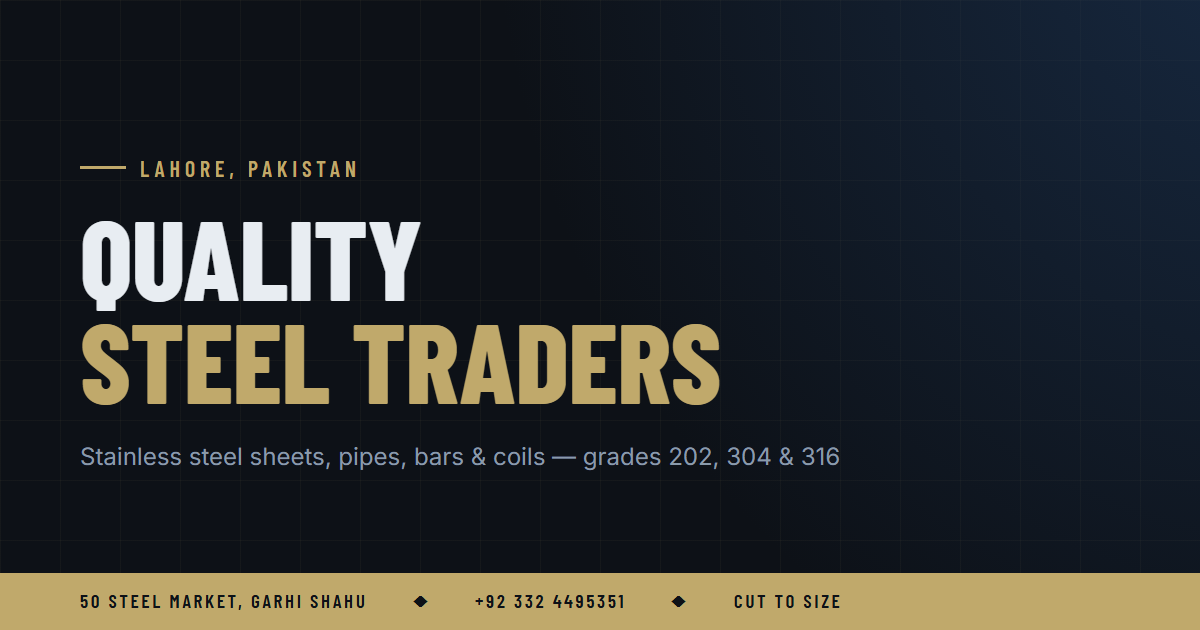
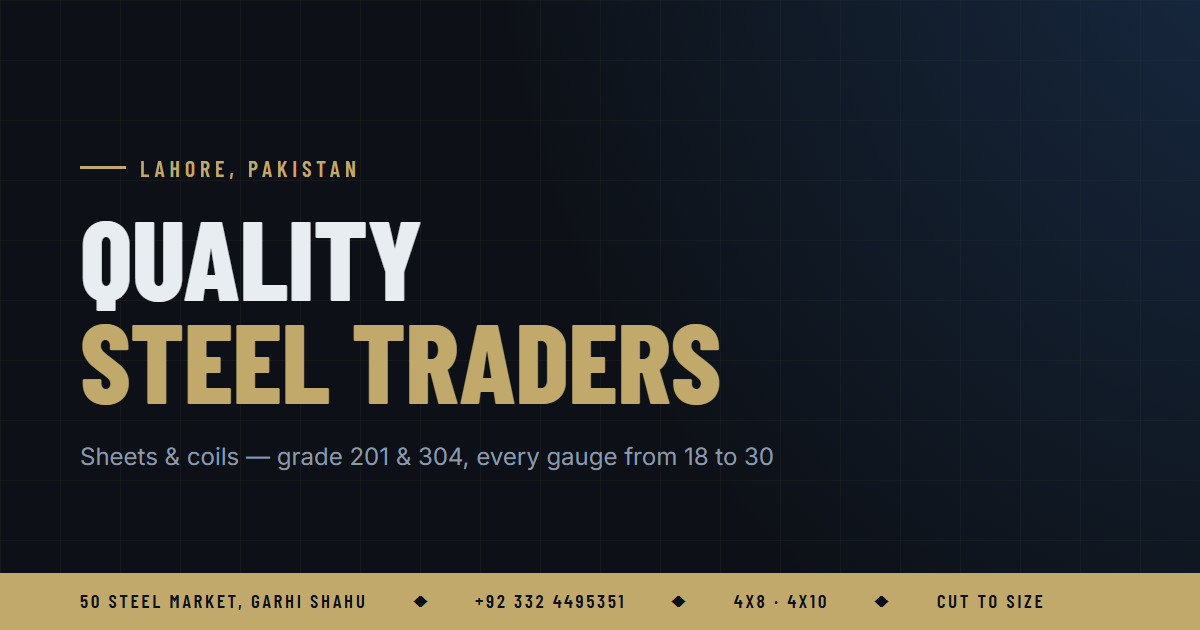
Restructure around sheets and coils using real stock data
Reworks the page from the inventory export so it reflects what the
business actually sells, and adds the specification detail that wins
long-tail searches.

Nothing priced or stock-level is published. Note that the export's
product names embed the buying rates ("26g 4ft rate 405"), so names
were not reused verbatim — only the specification was taken from them.

Corrections from the real data:

- Grades were wrong. The site advertised 202/304/316; stock is 201 and
  304. Now states 201 and 304 held, 202 and 316 to order.
- Golden PVD decorative sheets were stocked but absent from the site
  entirely. Added as a product line.
- Sheets and coils now lead the grid as the core business; pipes, bars,
  angles and fittings are marked "To Order".

Adds a "What We Stock" section covering gauge range 18-30, sheet sizes
4x8, 4x10, 30in and 39in, grades, finishes, forms and cutting — the
specifics buyers actually search for. Adds a Stock nav link.

Updates title, meta and og/twitter descriptions to match, and
regenerates og-image.png, which had the wrong grades printed on it.

Changed region(s): [[0.0617, 0.6937, 0.7092, 0.754], [0.6167, 0.9349, 0.74, 0.9651], [0.7708, 0.9349, 0.8633, 0.9651]]

diff --git a/index.html b/index.html
@@ -5,8 +5,8 @@
   <meta name="viewport" content="width=device-width, initial-scale=1.0"/>
 
   <!-- ── PRIMARY SEO ── -->
-  <title>Stainless Steel Supplier in Lahore | Quality Steel Traders</title>
-  <meta name="description" content="Stainless steel sheets, pipes, bars, coils and fittings in grades 202, 304 and 316. Supplier at 50 Steel Market, Garhi Shahu, Lahore. Cut-to-size, mill test certificates, same-day delivery in Lahore."/>
+  <title>Stainless Steel Sheets &amp; Coils in Lahore | Quality Steel Traders</title>
+  <meta name="description" content="Stainless steel sheets and coils in grades 201 and 304, gauges 18 to 30, sizes 4x8 and 4x10. Golden PVD sheets in stock. Supplier at Steel Market, Garhi Shahu, Lahore. Cut to size."/>
   <link rel="canonical" href="https://qualitysteeltraderslahore.com/"/>
   <meta name="robots" content="index, follow, max-image-preview:large"/>
   <meta name="author" content="Quality Steel Traders"/>
@@ -26,15 +26,15 @@
   <meta property="og:site_name" content="Quality Steel Traders"/>
   <meta property="og:locale" content="en_PK"/>
   <meta property="og:url" content="https://qualitysteeltraderslahore.com/"/>
-  <meta property="og:title" content="Stainless Steel Supplier in Lahore | Quality Steel Traders"/>
-  <meta property="og:description" content="Sheets, pipes, bars, coils and fittings in grades 202, 304 and 316 — direct from Lahore's Steel Market. Cut-to-size and same-day delivery."/>
+  <meta property="og:title" content="Stainless Steel Sheets &amp; Coils in Lahore | Quality Steel Traders"/>
+  <meta property="og:description" content="Grade 201 and 304 sheets in every gauge from 18 to 30 — 4x8, 4x10, 30&quot; and 39&quot; sizes, plus golden PVD sheets. Cut to size at Lahore's Steel Market."/>
   <meta property="og:image" content="https://qualitysteeltraderslahore.com/og-image.png"/>
   <meta property="og:image:width" content="1200"/>
   <meta property="og:image:height" content="630"/>
   <meta property="og:image:alt" content="Quality Steel Traders — stainless steel supplier, Lahore"/>
   <meta name="twitter:card" content="summary_large_image"/>
-  <meta name="twitter:title" content="Stainless Steel Supplier in Lahore | Quality Steel Traders"/>
-  <meta name="twitter:description" content="Sheets, pipes, bars, coils and fittings in grades 202, 304 and 316 — direct from Lahore's Steel Market."/>
+  <meta name="twitter:title" content="Stainless Steel Sheets &amp; Coils in Lahore | Quality Steel Traders"/>
+  <meta name="twitter:description" content="Grade 201 and 304 sheets, gauges 18 to 30, in 4x8 and 4x10 — direct from Lahore's Steel Market."/>
   <meta name="twitter:image" content="https://qualitysteeltraderslahore.com/og-image.png"/>
 
   <!-- ── ICONS ── -->
@@ -54,7 +54,7 @@
     "@type": ["LocalBusiness", "HardwareStore"],
     "@id": "https://qualitysteeltraderslahore.com/#business",
     "name": "Quality Steel Traders",
-    "description": "Stainless steel supplier in Lahore, Pakistan. Sheets, plates, pipes, tubes, bars, coils, angles, channels, fittings and flanges in grades 202, 304 and 316.",
+    "description": "Stainless steel sheet and coil supplier in Lahore, Pakistan. Sheets and coils in grades 201 and 304, gauges 18 to 30, in 4x8, 4x10, 30 inch and 39 inch sizes, plus golden PVD coated sheets. Pipes, bars, angles and fittings available to order.",
     "url": "https://qualitysteeltraderslahore.com/",
     "telephone": "+923324495351",
     "image": "https://qualitysteeltraderslahore.com/og-image.png",
@@ -85,12 +85,13 @@
       { "@type": "Country", "name": "Pakistan" }
     ],
     "knowsAbout": [
-      "Stainless steel sheets and plates in grades 202, 304 and 316",
-      "Stainless steel pipes and tubes, seamless and welded",
-      "Stainless steel bars and rods, round, flat and hexagonal",
+      "Stainless steel sheets in grade 201 and grade 304",
+      "Stainless steel sheets in 18 to 30 gauge",
+      "Stainless steel sheet sizes 4x8, 4x10, 30 inch and 39 inch",
+      "Golden PVD coated decorative stainless steel sheets",
       "Stainless steel coils and strips",
-      "Stainless steel angles and channels",
-      "Stainless steel fittings and flanges, DIN and ANSI"
+      "Cut to size stainless steel sheet cutting",
+      "Stainless steel pipes, tubes, bars, angles and fittings to order"
     ]
   }
   </script>
@@ -418,6 +419,50 @@
       font-weight: 600;
     }
 
+    /* ── SPECIFICATIONS ── */
+    #specs { background: var(--surface); }
+    .spec-grid {
+      display: grid;
+      grid-template-columns: repeat(2, 1fr);
+      gap: 1px;
+      background: var(--divider);
+      border: 1px solid var(--divider);
+      max-width: 980px;
+    }
+    .spec-row {
+      background: var(--steel-dark);
+      padding: 1.6rem 1.8rem;
+    }
+    .spec-label {
+      font-family: var(--font-display);
+      font-size: 0.78rem;
+      font-weight: 600;
+      letter-spacing: 0.16em;
+      text-transform: uppercase;
+      color: var(--accent);
+      margin-bottom: 0.6rem;
+    }
+    .spec-value {
+      color: var(--text-main);
+      font-size: 1rem;
+      line-height: 1.6;
+    }
+    .spec-value .spec-sub {
+      display: block;
+      color: var(--text-muted);
+      font-size: 0.85rem;
+      margin-top: 0.35rem;
+    }
+    .spec-note {
+      margin-top: 1.8rem;
+      font-size: 0.88rem;
+      color: var(--text-muted);
+      max-width: 980px;
+    }
+    .spec-note a { color: var(--accent); text-decoration: none; }
+    .spec-note a:hover { text-decoration: underline; }
+    @media (max-width: 700px) { .spec-grid { grid-template-columns: 1fr; } }
+
     /* ── WHY US ── */
     .why-grid {
       display: grid;
@@ -645,6 +690,7 @@
     </button>
     <ul class="nav-links" id="nav-links">
       <li><a href="#products">Products</a></li>
+      <li><a href="#specs">Stock</a></li>
       <li><a href="#why">Why Us</a></li>
       <li><a href="#contact">Contact</a></li>
       <li><a class="nav-call" href="tel:+923324495351">Call Now</a></li>
@@ -660,8 +706,9 @@
     <p class="hero-eyebrow">Stainless Steel Supplier · Lahore, Pakistan</p>
     <h1>Quality<em>Steel Traders</em></h1>
     <p class="hero-sub">
-      Supplying premium-grade stainless steel — sheets, pipes, bars and coils in grades 202, 304 and 316 —
-      to industries, fabricators, and contractors across Pakistan, direct from the heart of Lahore's Steel Market.
+      Stainless steel sheets and coils in grades 201 and 304 — every gauge from 18 to 30, in 4x8, 4x10,
+      30&Prime; and 39&Prime; sizes — supplied to fabricators, contractors and industry across Pakistan,
+      direct from Lahore's Steel Market.
     </p>
     <div class="cta-row">
       <a href="#products" class="btn-primary">View Products</a>
@@ -678,8 +725,8 @@
         <div class="stat-label">Happy Clients</div>
       </div>
       <div class="stat">
-        <div class="stat-num">Grade 304/316</div>
-        <div class="stat-label">Stock Available</div>
+        <div class="stat-num">18–30</div>
+        <div class="stat-label">Gauge Range In Stock</div>
       </div>
     </div>
   </div>
@@ -689,19 +736,19 @@
 <div class="marquee-wrap" aria-hidden="true">
   <div class="marquee-track">
     <span class="marquee-item">Stainless Steel Sheets <span class="marquee-dot">◆</span></span>
-    <span class="marquee-item">Pipes &amp; Tubes <span class="marquee-dot">◆</span></span>
-    <span class="marquee-item">Bars &amp; Rods <span class="marquee-dot">◆</span></span>
+    <span class="marquee-item">Golden PVD Sheets <span class="marquee-dot">◆</span></span>
+    <span class="marquee-item">18 – 30 Gauge <span class="marquee-dot">◆</span></span>
     <span class="marquee-item">Coils &amp; Strips <span class="marquee-dot">◆</span></span>
-    <span class="marquee-item">Angles &amp; Channels <span class="marquee-dot">◆</span></span>
-    <span class="marquee-item">Grade 304 · 316 · 202 <span class="marquee-dot">◆</span></span>
+    <span class="marquee-item">4x8 · 4x10 · 30&Prime; · 39&Prime; <span class="marquee-dot">◆</span></span>
+    <span class="marquee-item">Grade 201 · 304 <span class="marquee-dot">◆</span></span>
     <span class="marquee-item">Lahore Steel Market <span class="marquee-dot">◆</span></span>
     <!-- duplicate for seamless loop -->
     <span class="marquee-item">Stainless Steel Sheets <span class="marquee-dot">◆</span></span>
-    <span class="marquee-item">Pipes &amp; Tubes <span class="marquee-dot">◆</span></span>
-    <span class="marquee-item">Bars &amp; Rods <span class="marquee-dot">◆</span></span>
+    <span class="marquee-item">Golden PVD Sheets <span class="marquee-dot">◆</span></span>
+    <span class="marquee-item">18 – 30 Gauge <span class="marquee-dot">◆</span></span>
     <span class="marquee-item">Coils &amp; Strips <span class="marquee-dot">◆</span></span>
-    <span class="marquee-item">Angles &amp; Channels <span class="marquee-dot">◆</span></span>
-    <span class="marquee-item">Grade 304 · 316 · 202 <span class="marquee-dot">◆</span></span>
+    <span class="marquee-item">4x8 · 4x10 · 30&Prime; · 39&Prime; <span class="marquee-dot">◆</span></span>
+    <span class="marquee-item">Grade 201 · 304 <span class="marquee-dot">◆</span></span>
     <span class="marquee-item">Lahore Steel Market <span class="marquee-dot">◆</span></span>
   </div>
 </div>
@@ -710,7 +757,7 @@
 <section id="products">
   <div class="section-eyebrow reveal">What We Supply</div>
   <h2 class="reveal">Our Products</h2>
-  <p class="section-desc reveal">All stainless steel — in the grades, finishes, and dimensions your project demands. Bulk orders and cut-to-size available.</p>
+  <p class="section-desc reveal">Sheets and coils are our core stock — held in depth across every gauge from 18 to 30. Cut to size on site, with bulk rates for contractors.</p>
 
   <div class="products-grid">
     <div class="product-card reveal" style="transition-delay:0ms">
@@ -720,34 +767,11 @@
         <path d="M3 16l13 5.5L29 16"/>
         <path d="M3 21.5 16 27l13-5.5"/>
       </svg>
-      <h3>Sheets &amp; Plates</h3>
-      <p>Hot-rolled and cold-rolled stainless sheets in mirror, brushed, and matte finishes. Custom cutting available.</p>
-      <span class="product-tag">Grade 202 · 304 · 316</span>
+      <h3>Stainless Steel Sheets</h3>
+      <p>Our deepest stock. Grade 201 and 304 sheets in 4x8, 4x10, 30&Prime; and 39&Prime; sizes, mirror, brushed and matte finishes.</p>
+      <span class="product-tag">Grade 201 · 304 · 18–30 Gauge</span>
     </div>
     <div class="product-card reveal" style="transition-delay:90ms">
-      <!-- pipe seen end-on, with bore -->
-      <svg class="product-icon" viewBox="0 0 32 32" aria-hidden="true">
-        <ellipse cx="9" cy="16" rx="4" ry="9"/>
-        <ellipse cx="9" cy="16" rx="1.7" ry="4"/>
-        <path d="M9 7h14M9 25h14"/>
-        <path d="M23 7a4 9 0 0 1 0 18"/>
-      </svg>
-      <h3>Pipes &amp; Tubes</h3>
-      <p>Seamless and welded stainless pipes for plumbing, food-grade, chemical, and structural applications.</p>
-      <span class="product-tag">Round · Square · Rectangular</span>
-    </div>
-    <div class="product-card reveal" style="transition-delay:180ms">
-      <!-- length of round bar above a hexagonal bar cross-section -->
-      <svg class="product-icon" viewBox="0 0 32 32" aria-hidden="true">
-        <rect x="3" y="7" width="26" height="7" rx="3.5"/>
-        <path d="M9 18.5 13.5 16l4.5 2.5v5L13.5 26 9 23.5Z"/>
-        <path d="M21 19h7M21 24h7"/>
-      </svg>
-      <h3>Bars &amp; Rods</h3>
-      <p>Solid round, flat, and hexagonal bars for machining, fabrication, and construction use.</p>
-      <span class="product-tag">Bright · Black Finish</span>
-    </div>
-    <div class="product-card reveal" style="transition-delay:0ms">
       <!-- coiled strip unwinding -->
       <svg class="product-icon" viewBox="0 0 32 32" aria-hidden="true">
         <circle cx="13" cy="16" r="9"/>
@@ -756,9 +780,45 @@
       </svg>
       <h3>Coils &amp; Strips</h3>
       <p>Slit coils and precision strips for roll-forming, stamping, and industrial manufacturing lines.</p>
-      <span class="product-tag">Various Gauges</span>
+      <span class="product-tag">Slit to Width</span>
+    </div>
+    <div class="product-card reveal" style="transition-delay:180ms">
+      <!-- sheet with a shine mark, for PVD-coated decorative stock -->
+      <svg class="product-icon" viewBox="0 0 32 32" aria-hidden="true">
+        <path d="M4 9.5 15 4.5l11 5-11 5Z"/>
+        <path d="M4 9.5v11l11 5v-11"/>
+        <path d="M26 9.5v6"/>
+        <path d="M25 20.5l1.4 3.1 3.1 1.4-3.1 1.4L25 29.5l-1.4-3.1-3.1-1.4 3.1-1.4Z"
+              fill="currentColor" stroke="none"/>
+      </svg>
+      <h3>Golden &amp; PVD Sheets</h3>
+      <p>Gold-finish decorative sheets for interiors, furniture, cladding and shopfronts. Sold per sheet by weight.</p>
+      <span class="product-tag">Decorative Finish</span>
+    </div>
+    <div class="product-card reveal" style="transition-delay:0ms">
+      <!-- pipe seen end-on, with bore -->
+      <svg class="product-icon" viewBox="0 0 32 32" aria-hidden="true">
+        <ellipse cx="9" cy="16" rx="4" ry="9"/>
+        <ellipse cx="9" cy="16" rx="1.7" ry="4"/>
+        <path d="M9 7h14M9 25h14"/>
+        <path d="M23 7a4 9 0 0 1 0 18"/>
+      </svg>
+      <h3>Pipes &amp; Tubes</h3>
+      <p>Round, square and rectangular stainless pipes for plumbing, food-grade, chemical and structural work.</p>
+      <span class="product-tag">To Order</span>
     </div>
     <div class="product-card reveal" style="transition-delay:90ms">
+      <!-- length of round bar above a hexagonal bar cross-section -->
+      <svg class="product-icon" viewBox="0 0 32 32" aria-hidden="true">
+        <rect x="3" y="7" width="26" height="7" rx="3.5"/>
+        <path d="M9 18.5 13.5 16l4.5 2.5v5L13.5 26 9 23.5Z"/>
+        <path d="M21 19h7M21 24h7"/>
+      </svg>
+      <h3>Bars &amp; Rods</h3>
+      <p>Solid round, flat and hexagonal bars for machining, fabrication and construction use.</p>
+      <span class="product-tag">To Order</span>
+    </div>
+    <div class="product-card reveal" style="transition-delay:180ms">
       <!-- One angle bar drawn as an extruded 3D length. A flat L cross-section
            is indistinguishable from the letter "L", so it is shown isometrically
            with shaded faces to read as a physical steel section. -->
@@ -768,25 +828,63 @@
         <path d="M9 24 19 17h8l-10 7Z"    fill="currentColor" stroke="none" opacity="0.5"/>
         <path d="M17 24 27 17v5l-10 7Z"   fill="currentColor" stroke="none" opacity="0.75"/>
       </svg>
-      <h3>Angles &amp; Channels</h3>
-      <p>Equal and unequal angles, C-channels, and U-channels for frameworks and structural work.</p>
-      <span class="product-tag">Structural Grade</span>
-    </div>
-    <div class="product-card reveal" style="transition-delay:180ms">
-      <!-- bolt-hole flange face -->
-      <svg class="product-icon" viewBox="0 0 32 32" aria-hidden="true">
-        <circle cx="16" cy="16" r="11"/>
-        <circle cx="16" cy="16" r="4.5"/>
-        <circle cx="16" cy="7.5" r="1.4"/>
-        <circle cx="16" cy="24.5" r="1.4"/>
-        <circle cx="7.5" cy="16" r="1.4"/>
-        <circle cx="24.5" cy="16" r="1.4"/>
-      </svg>
-      <h3>Fittings &amp; Flanges</h3>
-      <p>Elbows, tees, reducers, and flanges to complete your pipeline or process installation.</p>
-      <span class="product-tag">DIN · ANSI Standard</span>
+      <h3>Angles, Channels &amp; Fittings</h3>
+      <p>Angles, C-channels and U-channels for frameworks, plus elbows, tees, reducers and flanges.</p>
+      <span class="product-tag">To Order</span>
     </div>
   </div>
+</section>
+
+<!-- SPECIFICATIONS -->
+<section id="specs">
+  <div class="section-eyebrow reveal">Sizes &amp; Grades</div>
+  <h2 class="reveal">What We Stock</h2>
+  <p class="section-desc reveal">If you know the gauge and size you need, it is almost certainly on our floor. Tell us the specification and we will confirm availability the same day.</p>
+
+  <div class="spec-grid">
+    <div class="spec-row reveal">
+      <div class="spec-label">Gauge Range</div>
+      <div class="spec-value">18 gauge to 30 gauge
+        <span class="spec-sub">Including 19g, 20g, 22g, 23g, 24g, 25g, 26g, 28g, 29g and 30g</span>
+      </div>
+    </div>
+    <div class="spec-row reveal">
+      <div class="spec-label">Sheet Sizes</div>
+      <div class="spec-value">4ft × 8ft &nbsp;·&nbsp; 4ft × 10ft
+        <span class="spec-sub">Plus 30&Prime; and 39&Prime; widths, and 4ft width coils</span>
+      </div>
+    </div>
+    <div class="spec-row reveal">
+      <div class="spec-label">Grades</div>
+      <div class="spec-value">201 and 304 held in stock
+        <span class="spec-sub">202 and 316 supplied to order</span>
+      </div>
+    </div>
+    <div class="spec-row reveal">
+      <div class="spec-label">Finishes</div>
+      <div class="spec-value">Mirror, brushed, matte
+        <span class="spec-sub">Golden PVD decorative sheets also stocked</span>
+      </div>
+    </div>
+    <div class="spec-row reveal">
+      <div class="spec-label">Forms</div>
+      <div class="spec-value">Sheets, coils and slit strips
+        <span class="spec-sub">Coils slit to the width you need</span>
+      </div>
+    </div>
+    <div class="spec-row reveal">
+      <div class="spec-label">Cutting</div>
+      <div class="spec-value">Cut to size on site
+        <span class="spec-sub">Receive exact dimensions — no wastage, no rework</span>
+      </div>
+    </div>
+  </div>
+
+  <p class="spec-note reveal">
+    Looking for a gauge or size not listed? We source directly —
+    <a href="https://wa.me/923324495351?text=Assalam-o-Alaikum%2C%20do%20you%20have%20this%20size%20in%20stock%3F" target="_blank" rel="noopener">ask us on WhatsApp</a>
+    or call <a href="tel:+923324495351">+92 332 4495351</a>.
+  </p>
 </section>
 
 <!-- WHY US -->

diff --git a/og-image-source.html b/og-image-source.html
@@ -35,12 +35,14 @@
   <div class="wrap">
     <div class="eyebrow">Lahore, Pakistan</div>
     <h1>Quality<em>Steel Traders</em></h1>
-    <p>Stainless steel sheets, pipes, bars &amp; coils — grades 202, 304 &amp; 316</p>
+    <p>Sheets &amp; coils — grade 201 &amp; 304, every gauge from 18 to 30</p>
   </div>
   <div class="bar">
     <span>50 Steel Market, Garhi Shahu</span>
     <span>◆</span>
     <span>+92 332 4495351</span>
+    <span>◆</span>
+    <span>4x8 · 4x10</span>
     <span>◆</span>
     <span>Cut to Size</span>
   </div>
